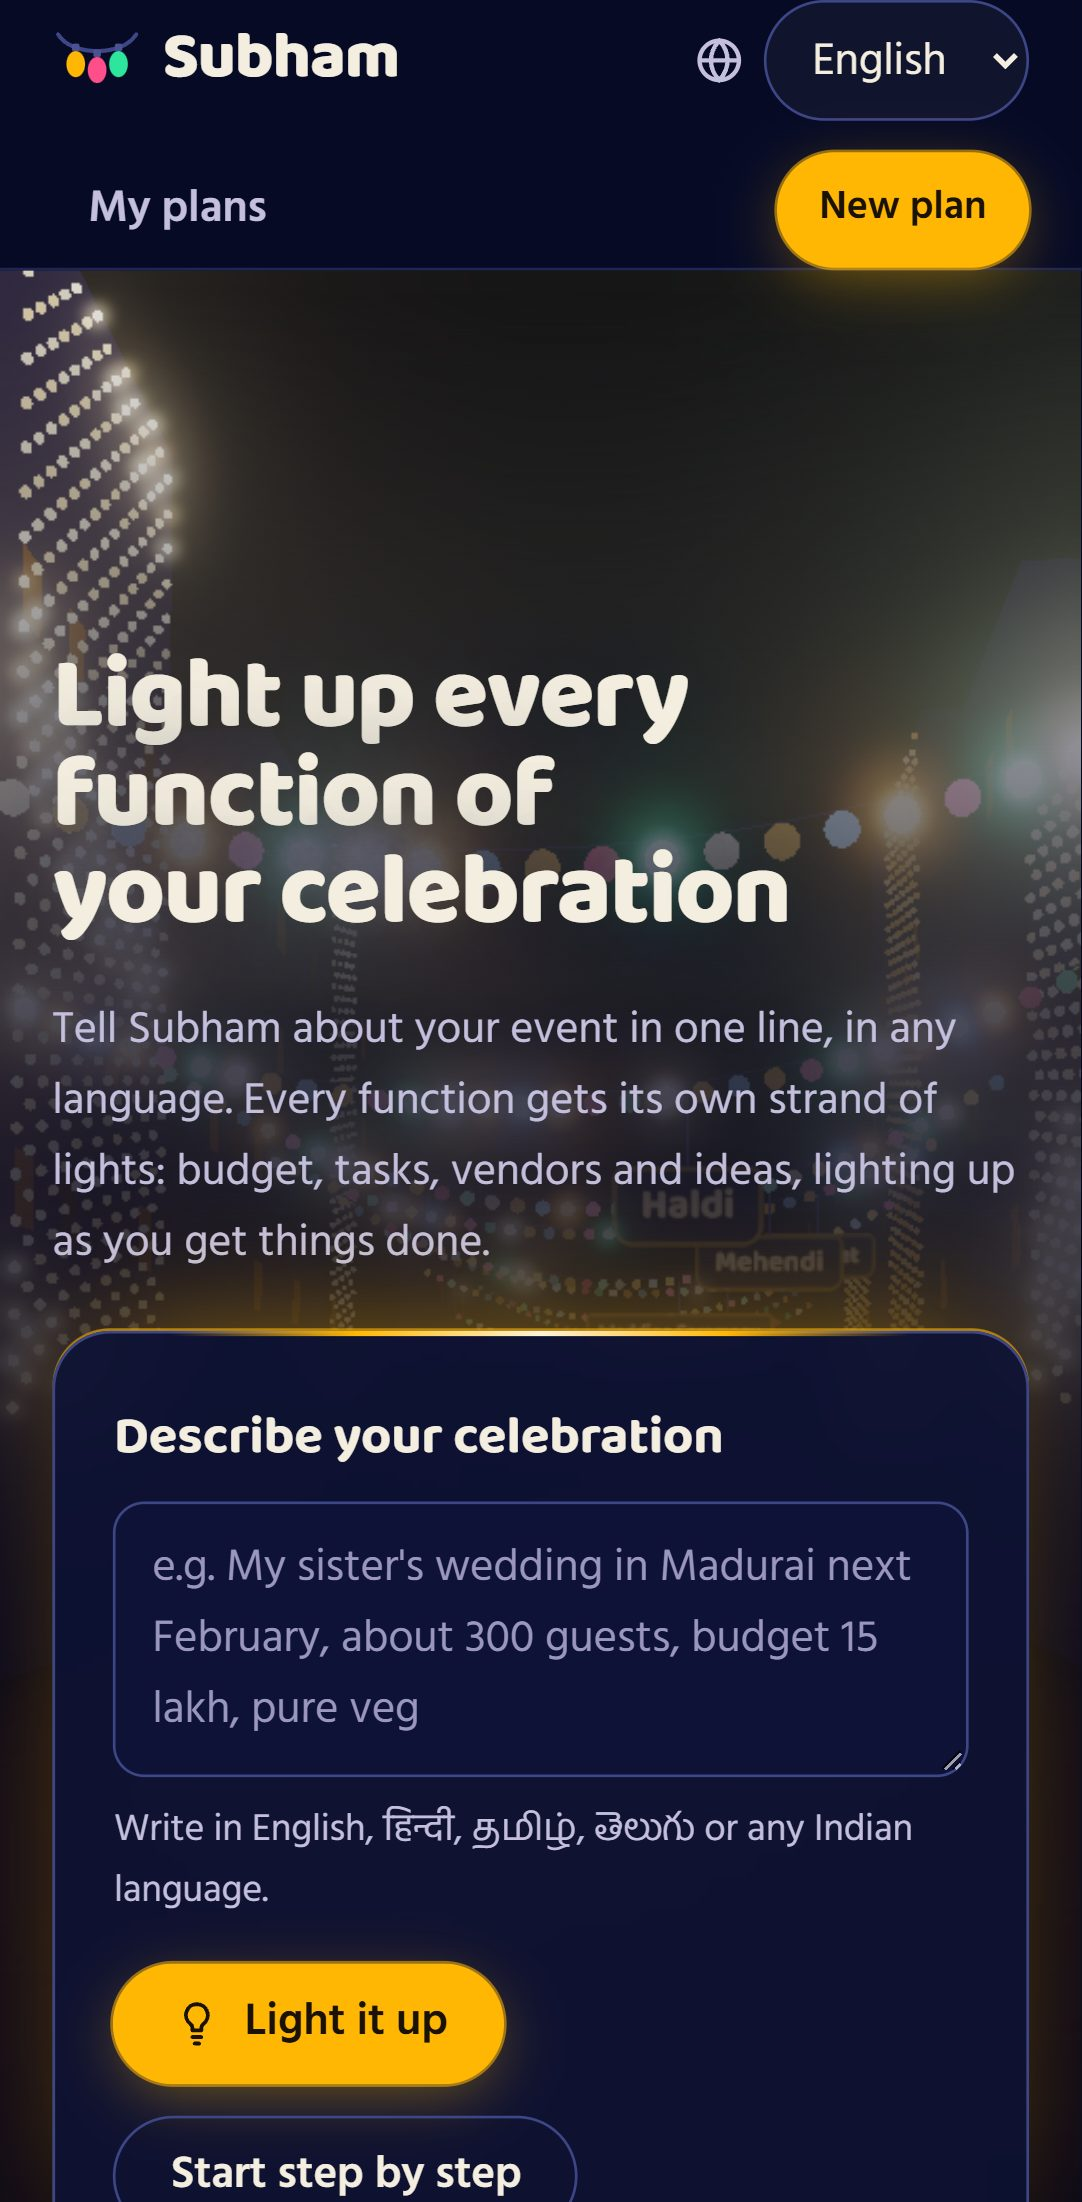
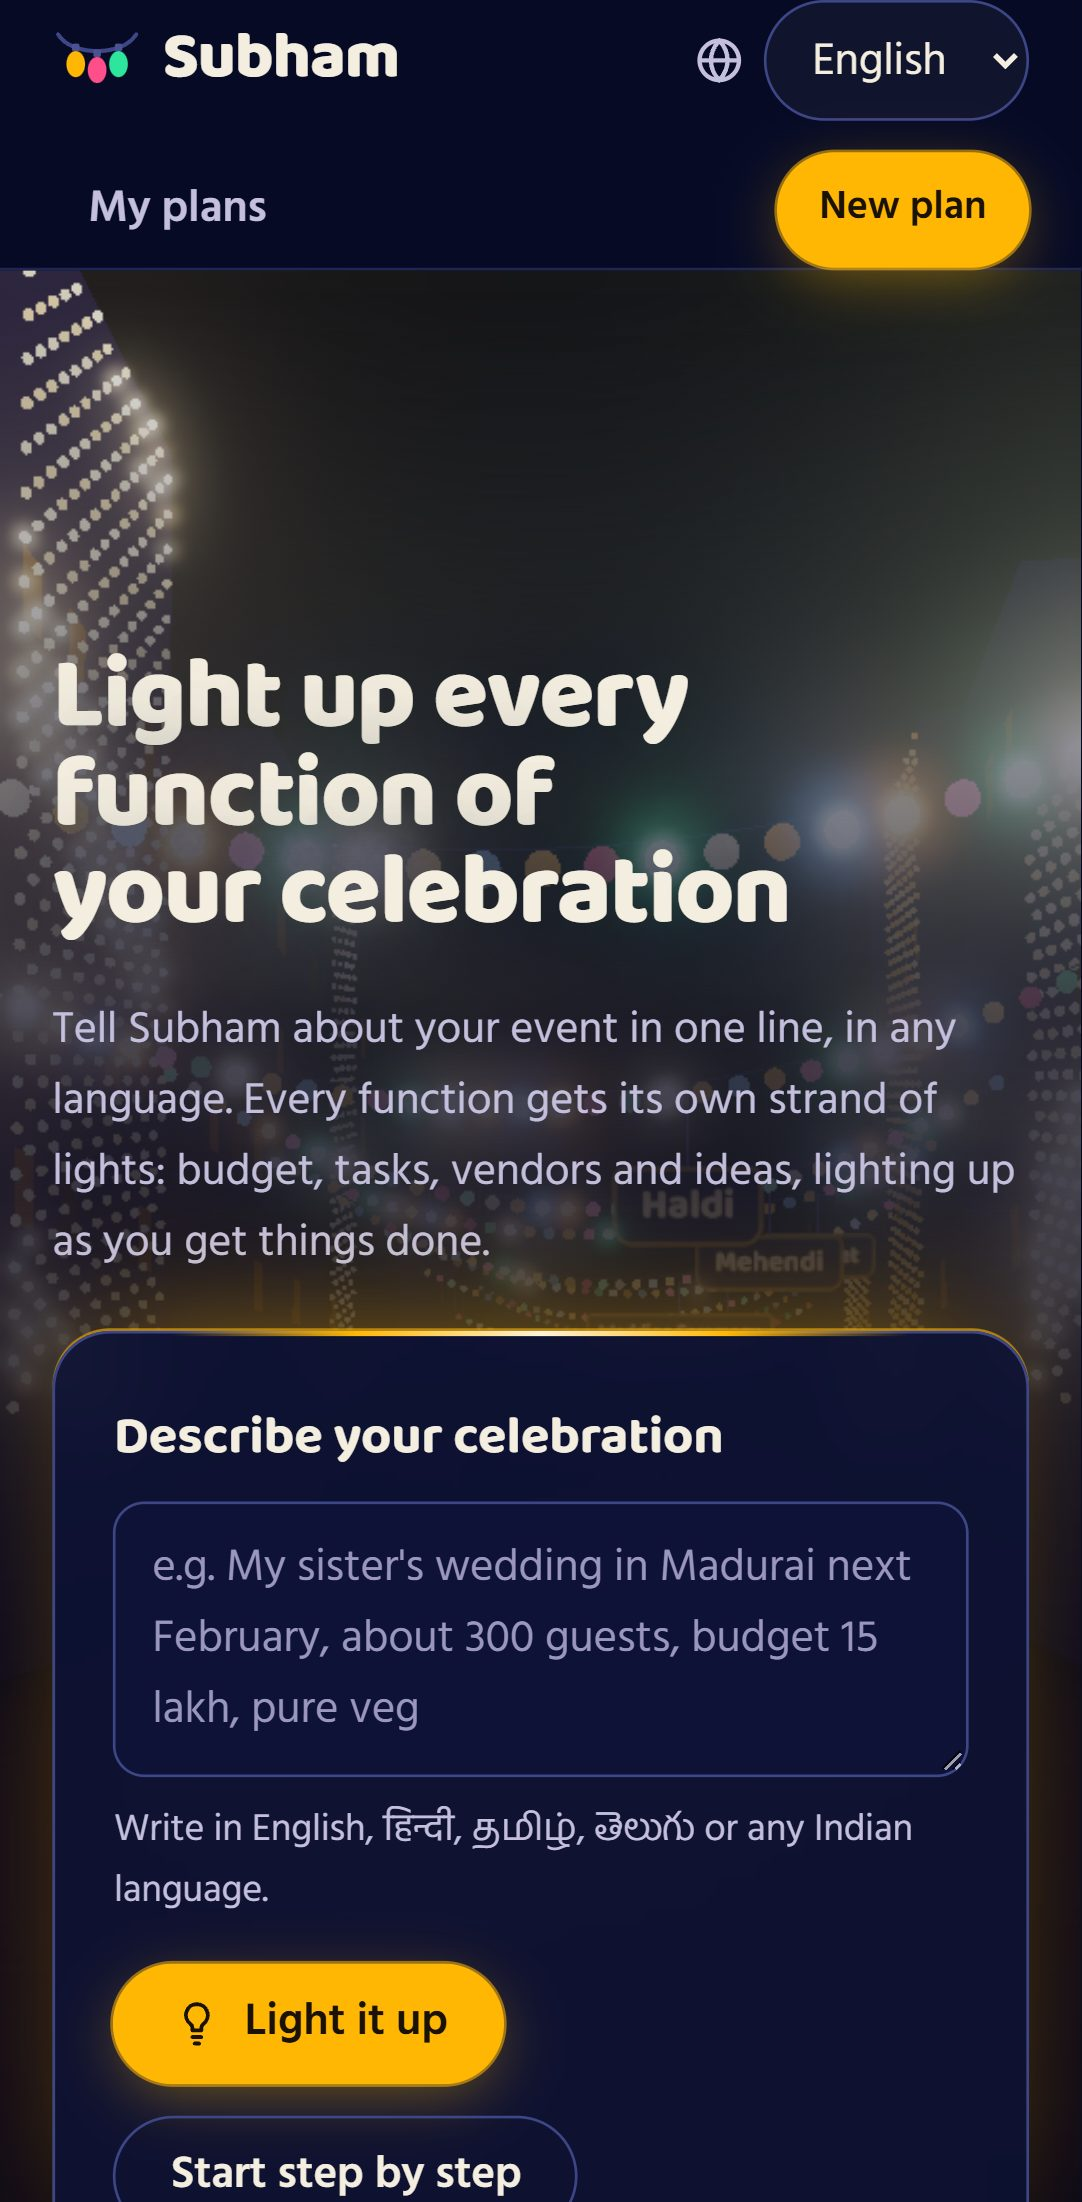
fix(css): scope global utility classes with :global() inside CSS modules
.addRow .field, .inlineForm .field/.error-text, .guestForm .error-text and
.close .hint were hashed by CSS modules and never matched, so e.g. the
wizard's 'Add a function' input stayed narrow and its button sat 1rem
below the input. Screenshots regenerated.

diff --git a/src/ui/dashboard/Dashboard.module.css b/src/ui/dashboard/Dashboard.module.css
@@ -229,14 +229,14 @@
 .inlineForm h3 {
   width: 100%;
 }
-.inlineForm .field {
+.inlineForm :global(.field) {
   flex: 1;
   min-width: 180px;
 }
 .inlineForm button {
   margin-bottom: 1rem;
 }
-.inlineForm .error-text {
+.inlineForm :global(.error-text) {
   width: 100%;
 }
 .tasks {
@@ -327,7 +327,7 @@
   align-items: end;
 }
 .guestForm h2,
-.guestForm .error-text {
+.guestForm :global(.error-text) {
   grid-column: 1 / -1;
 }
 .guestForm button {

diff --git a/src/ui/wizard/Wizard.module.css b/src/ui/wizard/Wizard.module.css
@@ -120,7 +120,7 @@
   align-items: flex-end;
   flex-wrap: wrap;
 }
-.addRow .field {
+.addRow :global(.field) {
   flex: 1;
   min-width: 200px;
   margin-bottom: 0;

diff --git a/src/ui/landing/Home.module.css b/src/ui/landing/Home.module.css
@@ -469,7 +469,7 @@
   font-size: clamp(2rem, 5vw, 3.8rem);
   max-width: 18ch;
 }
-.close .hint {
+.close :global(.hint) {
   margin-top: 1.5rem;
 }
 
